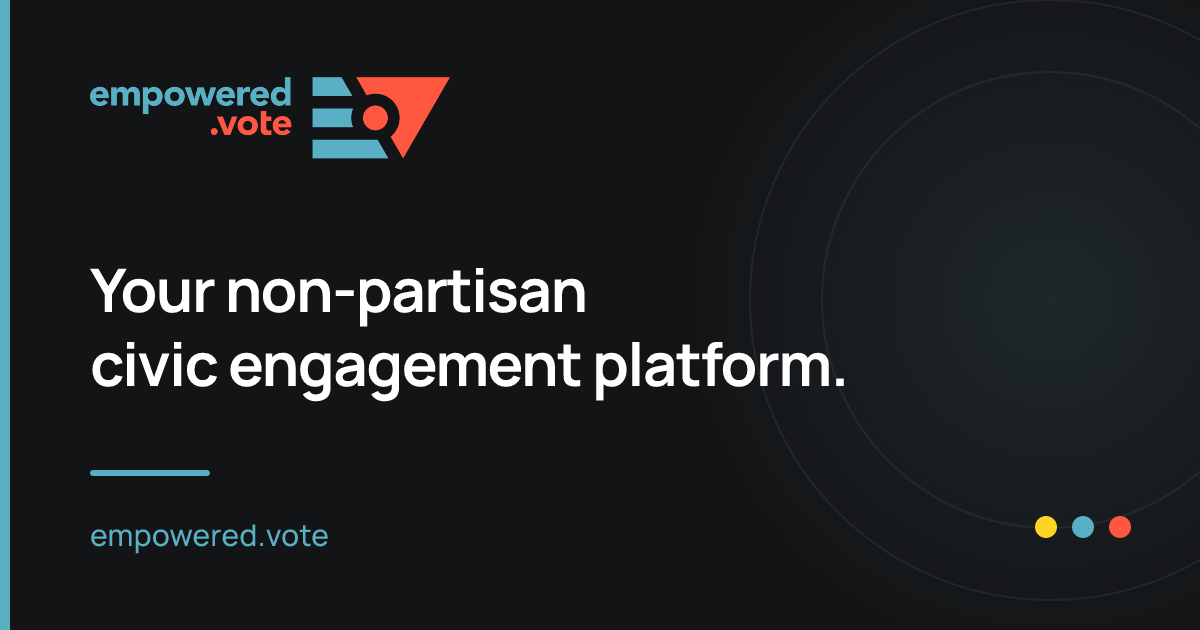
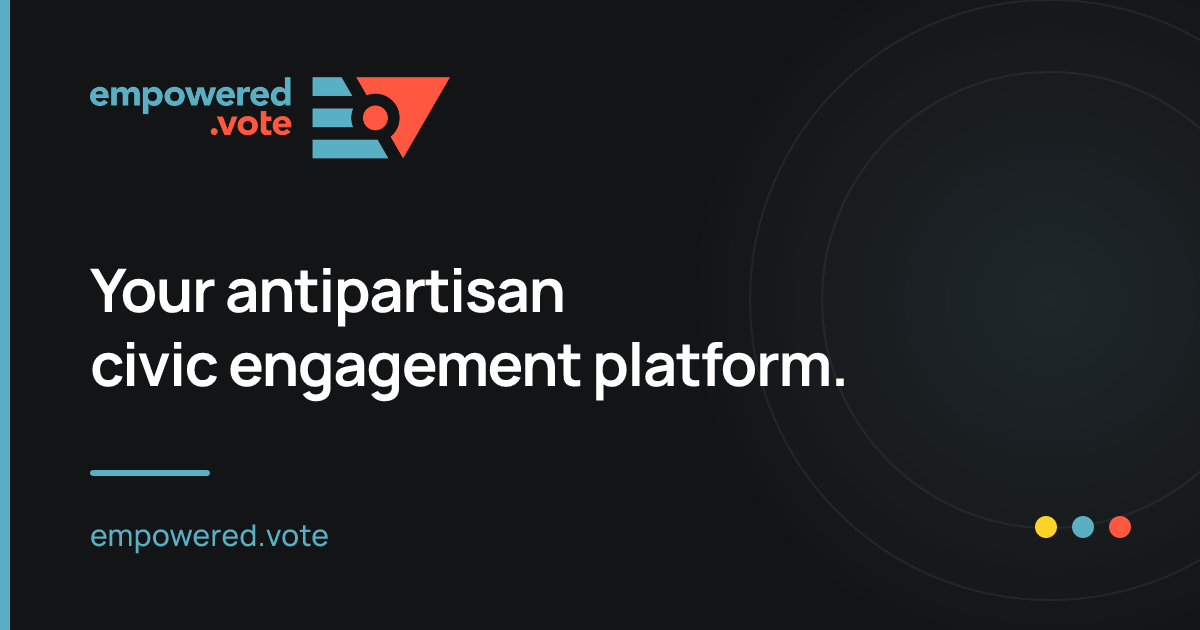
copy: "antipartisan" replaces "non-partisan" on the donate page, share image and robots.txt
The share image (og-image.png) is regenerated from tools/og-card with the new
headline.  The Talk 01 title still says "nonpartisan" because it matches the
video's own title.

Changed region(s): [[0.185, 0.4222, 0.4933, 0.5127]]

diff --git a/donate.html b/donate.html
@@ -4,14 +4,14 @@
   <meta charset="UTF-8" />
   <meta name="viewport" content="width=device-width, initial-scale=1.0" />
   <title>Donate — Empowered Vote</title>
-  <meta name="description" content="Support Empowered Vote, a non-partisan non-profit funded by donations — never ads. Give once or monthly." />
+  <meta name="description" content="Support Empowered Vote, an antipartisan nonprofit funded by donations — never ads. Give once or monthly." />
   <link rel="canonical" href="https://empowered.vote/donate" />
   <link rel="icon" href="favicon.png" />
 
   <meta property="og:type" content="website" />
   <meta property="og:url" content="https://empowered.vote/donate" />
   <meta property="og:title" content="Donate — Empowered Vote" />
-  <meta property="og:description" content="Fund a non-partisan tool for the search for shared solutions. Our books are public." />
+  <meta property="og:description" content="Fund an antipartisan tool for the search for shared solutions. Our books are public." />
 
   <link rel="preconnect" href="https://fonts.googleapis.com" />
   <link rel="preconnect" href="https://fonts.gstatic.com" crossorigin />
